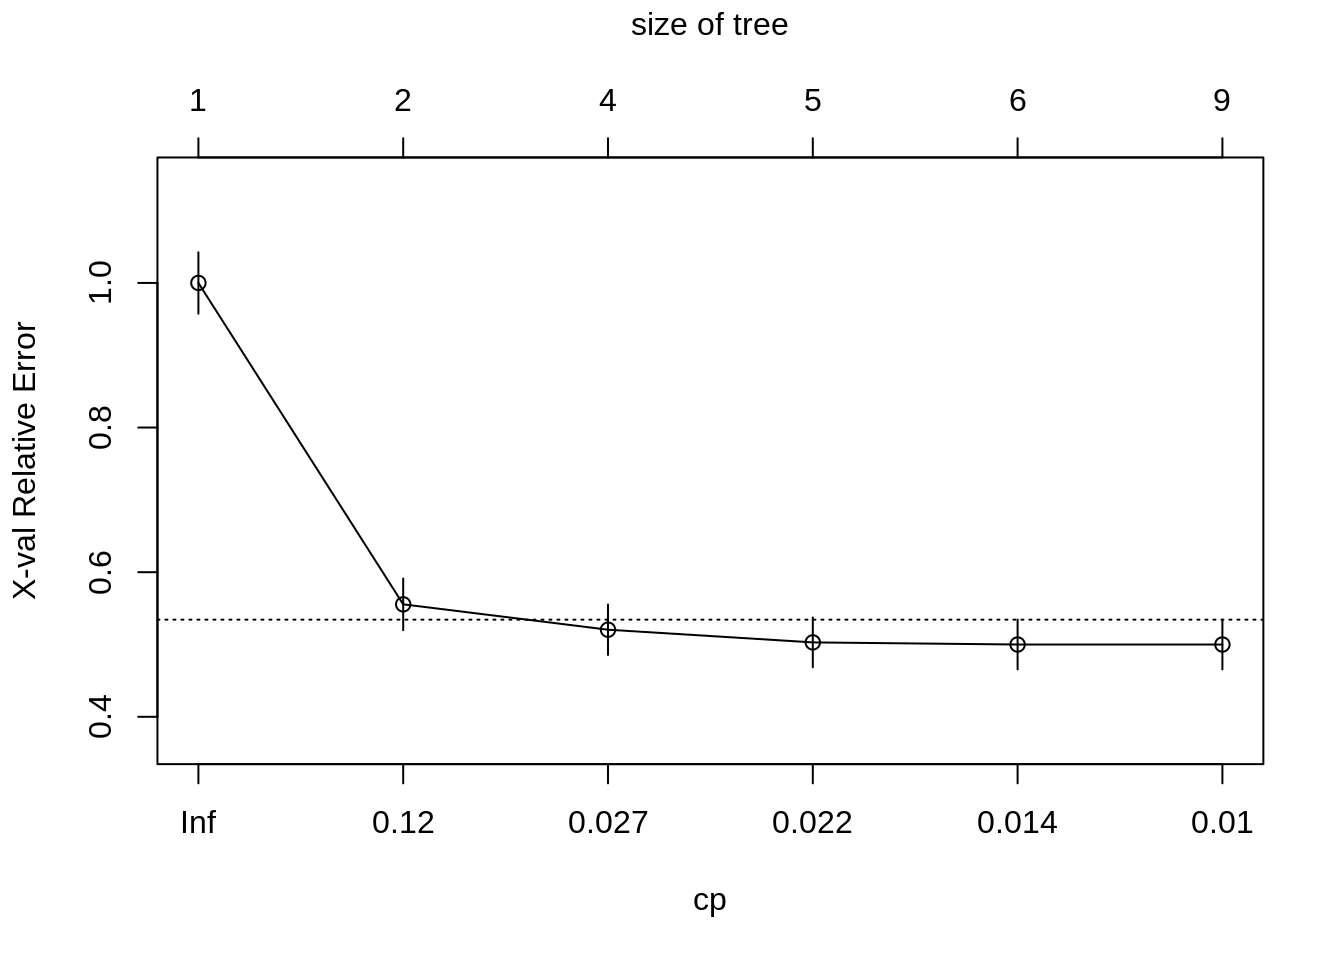
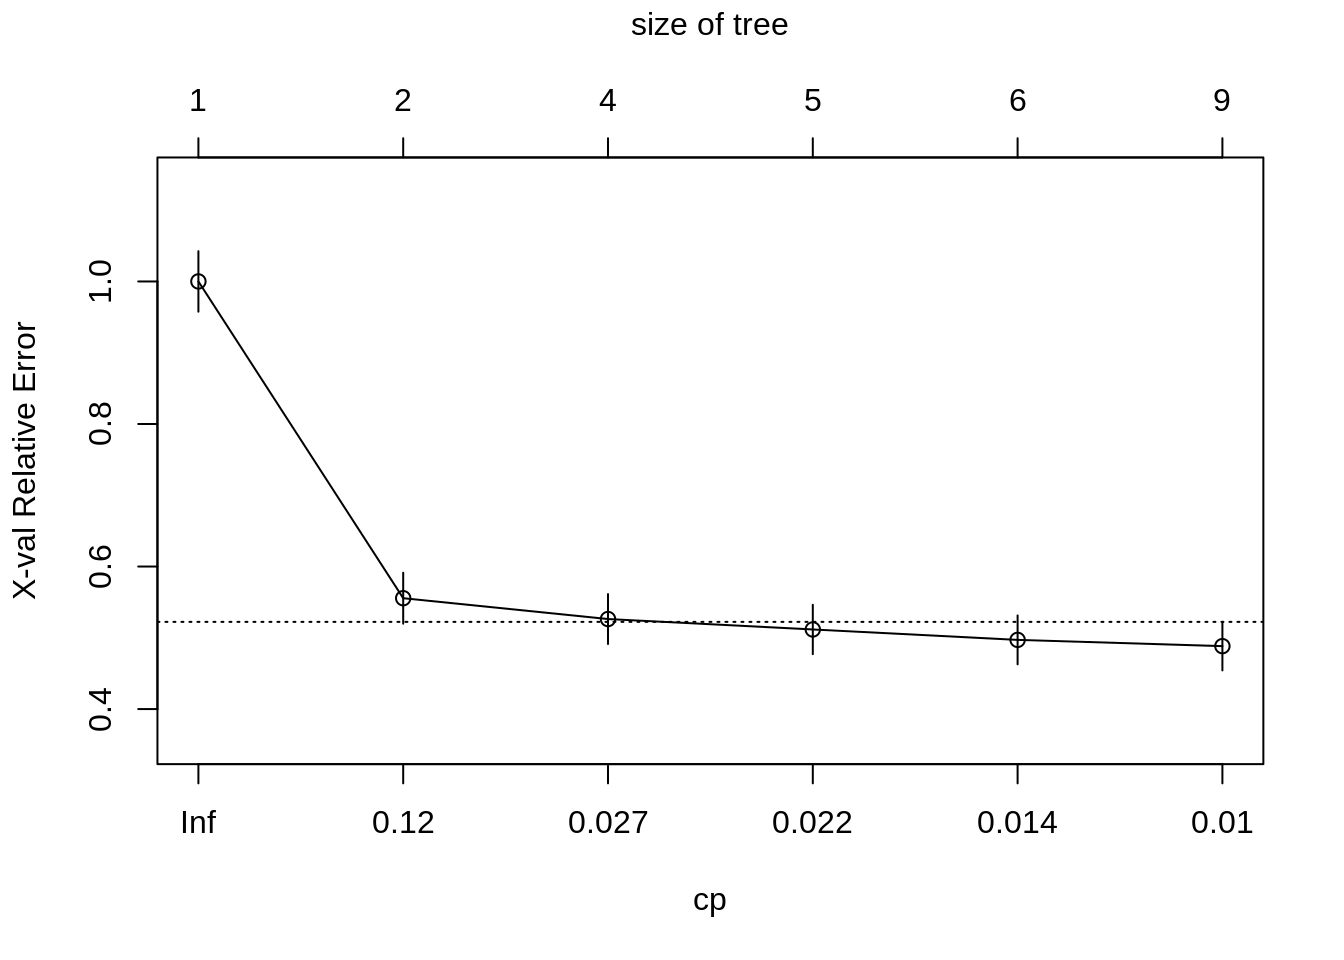
Deploy lebebr01/stat_thinking to github.com/lebebr01/stat_thinking.git:master

diff --git a/docs/descriptive-statistics-numerically-describing-the-sample-data.html b/docs/descriptive-statistics-numerically-describing-the-sample-data.html
@@ -561,6 +561,82 @@ Y = \begin{pmatrix}10 - 24\\ 10-24\\ 20-24\\ 30-24\\ 50-24\end{pmatrix} = \begin
 <pre><code>##   mae_adm_rate
 ## 1    0.1692953</code></pre>
 <!-- This is a test. -->
+<!-- ## Considering Groups -->
+<!-- We've spent a lot of time trying to reason about other variables that may be important in explaining variation in our variable of interest. So far we have only explored the variable without considering other variables, in practice that is not that useful. -->
+<!-- Instead, it is common to compute conditional statistics based on other characteristics in the data. An example may help to show the idea more clearly. -->
+<!-- ```{r} -->
+<!-- colleges %>% -->
+<!--   df_stats(adm_rate ~ region, median) -->
+<!-- ``` -->
+<!-- Presented above are the conditional medians for the higher education institutions in different areas of the country. More specifically, the data are essentially split into subgroups and the median is computed for each of those subgroups instead of pooling all institutions into a single data frame. The formula syntax is now `outcome ~ grouping` where the variable of interest (i.e. commonly a numeric variable) and the variable to the right of the `~` is the grouping variable. This syntax is similar to the violin plots that were created earlier. -->
+<!-- Can you see differences in the admission rates across the regions? -->
+<!-- One thing that is useful to add in when computing conditional statisics, is how many data points are in each group. This is particularly useful when the groups are different sizes, which is common. To do this, we can add another function to the `df_stats()` function. -->
+<!-- ```{r} -->
+<!-- colleges %>% -->
+<!--   df_stats(adm_rate ~ region, median, length) -->
+<!-- ``` -->
+<!-- This adds another columns which represents the number of observations that went into the median calculation for each group. The syntax above also shows that you can add additional functions separated by a comma in the `df_stats()` function and are not limited to a single function. We will take advantage of this feature later on. -->
+<!-- ### Adding additional groups -->
+<!-- What if we thought more than one variable was important in explaining variation in the outcome variable? These can also be added to the `df_stats()` function for additional conditional statistics. The key is to add another variable to the right-hand side of the formula argument. More than one variable are separated with a `+` symbol. -->
+<!-- ```{r} -->
+<!-- colleges %>% -->
+<!--   df_stats(adm_rate ~ region + preddeg, median, length) -->
+<!-- ``` -->
+<!-- ## Other statistics of center -->
+<!-- So far we have been discussing the median. The median attempts to provide a single number summary for the center of the distribution. It is a robust statistic, but likely isn't the most popular statistic to provide a location for the center of a distribution. The mean is often more commonly used as a measure of the center of a distribution. Part of this is due to the usage of the mean in common statistical methods and the mean also uses the values of all the data in the calculation. The median only considers the values of the middle score or scores, therefore this statistic is less sensitive to extreme values than the mean. I like to look at both statistics and this can provide some insight into the distribution of interest. We can add the mean using the `df_stats()` function by adding the function `mean`. -->
+<!-- ```{r} -->
+<!-- stats_compute <- colleges %>% -->
+<!--   df_stats(adm_rate ~ region, median, mean, length) -->
+<!-- stats_compute -->
+<!-- ``` -->
+<!-- Do you notice any trends in the direction the mean and median typically follow? More specifically, is the mean typically larger than the median or vice versa? -->
+<!-- Let's visualize them. -->
+<!-- ```{r} -->
+<!-- gf_histogram(~ adm_rate, data = colleges, bins = 30) %>% -->
+<!--   gf_facet_wrap(~ region) %>% -->
+<!--   gf_vline(color = 'blue', xintercept = ~ median_adm_rate, data = stats_compute, size = 1) %>% -->
+<!--   gf_vline(color = 'lightblue', xintercept = ~ mean_adm_rate, data = stats_compute, size = 1) -->
+<!-- ``` -->
+<!-- What is different about the distributions that have larger differences in the mean and median? -->
+<!-- ## Measures of Variation -->
+<!-- So far we have focused primarily on applying functions to columns of data to provide a single numeric summary for where the center of the distribution may lie. The center of the distribution is important, however the primary goal in research and with statistics is to try to understand the variation in the distribution. -->
+<!-- One crude measure of variation that is intuitive is the range of a variable. The range is the difference between the smallest and the largest number in the data. We can compute this with the `df_stats()` function. -->
+<!-- ```{r} -->
+<!-- colleges %>% -->
+<!--   df_stats(~ adm_rate, range) -->
+<!-- ``` -->
+<!-- The details of the `df_stats()` function are in the previous course notes. The output for this computation returns two values, the minimum and maximum value in the data and unsurprisingly, is 0 and 1 respectively.  -->
+<!-- ### Robust measure of variation -->
+<!-- The idea behind the IQR representing differences in percentiles allows us to extend this to different percentiles that may be more directly interpretable for a given situation. For example, suppose we wanted to know how spread out the middle 80% of the distribution is. We can do this directly by computing the 90th and 10th percentiles and finding the difference between the two. -->
+<!-- ```{r} -->
+<!-- mid_80 <- colleges %>% -->
+<!--   df_stats(~ adm_rate, quantile(c(0.1, 0.9)), nice_names = TRUE) -->
+<!-- mid_80 -->
+<!-- ``` -->
+<!-- As you can see, once you extend the amount of the distribution contained, the distance increases, now to 0.555 or 55.5% the the range of the middle 80% of the admission rate distribution. We can also visualize what this looks like. -->
+<!-- ```{r} -->
+<!-- gf_histogram(~ adm_rate, data = colleges, bins = 30, color = 'black') %>% -->
+<!--   gf_vline(color = 'blue', xintercept = ~ value, data = gather(mid_80), size = 1) -->
+<!-- ``` -->
+<!-- We can also view the exact percentages using the empirical cumulative density function. -->
+<!-- ```{r} -->
+<!-- gf_ecdf(~ adm_rate, data = colleges) %>% -->
+<!--   gf_vline(color = 'blue', xintercept = ~ value, data = gather(mid_80), size = 1) -->
+<!-- ``` -->
+<!-- ### Variation by Group -->
+<!-- These statistics can also be calculated by different grouping variables similar to what was done with statisitcs of center. Now the variable of interest is on the left-hand side of the equation and the grouping variable is on the right hand side. -->
+<!-- ```{r} -->
+<!-- iqr_groups <- colleges %>% -->
+<!--   df_stats(adm_rate ~ region, IQR, quantile(c(0.25, 0.75)), nice_names = TRUE) -->
+<!-- iqr_groups -->
+<!-- ``` -->
+<!-- This can also be visualized to see how these statistics vary across the groups. -->
+<!-- ```{r} -->
+<!-- gf_histogram(~ adm_rate, data = colleges, bins = 30, color = 'black') %>% -->
+<!--   gf_vline(color = 'blue', xintercept = ~ value,  -->
+<!--      data = filter(pivot_longer(iqr_groups, IQR_adm_rate:'X75.'), name %in% c('X25.', 'X75.')), size = 1) %>% -->
+<!--   gf_facet_wrap(~ region) -->
+<!-- ``` -->
 
 </div>
 </div>

diff --git a/docs/classification.html b/docs/classification.html
@@ -324,10 +324,10 @@ titanic &lt;-<span class="st"> </span><span class="kw">bind_rows</span>(titanic_
 ##         CP nsplit rel error  xerror     xstd
 ## 1 0.444444      0   1.00000 1.00000 0.042446
 ## 2 0.030702      1   0.55556 0.55556 0.035750
-## 3 0.023392      3   0.49415 0.52047 0.034897
-## 4 0.020468      4   0.47076 0.50292 0.034448
-## 5 0.010234      5   0.45029 0.50000 0.034372
-## 6 0.010000      8   0.41813 0.50000 0.034372</code></pre>
+## 3 0.023392      3   0.49415 0.52632 0.035043
+## 4 0.020468      4   0.47076 0.51170 0.034675
+## 5 0.010234      5   0.45029 0.49708 0.034295
+## 6 0.010000      8   0.41813 0.48830 0.034061</code></pre>
 <div class="sourceCode"><pre class="sourceCode r"><code class="sourceCode r"><span class="kw">plotcp</span>(class_tree)</code></pre></div>
 <p><img src="05-classification_files/figure-html/unnamed-chunk-6-1.png" width="672" /></p>
 <div class="sourceCode"><pre class="sourceCode r"><code class="sourceCode r">prune_class_tree &lt;-<span class="st"> </span><span class="kw">prune</span>(class_tree, <span class="dt">cp =</span> .<span class="dv">02</span>)

diff --git a/docs/03-descriptive.md b/docs/03-descriptive.md
@@ -711,3 +711,112 @@ colleges %>%
 
 <!-- This is a test. -->
 
+<!-- ## Considering Groups -->
+<!-- We've spent a lot of time trying to reason about other variables that may be important in explaining variation in our variable of interest. So far we have only explored the variable without considering other variables, in practice that is not that useful. -->
+
+<!-- Instead, it is common to compute conditional statistics based on other characteristics in the data. An example may help to show the idea more clearly. -->
+
+<!-- ```{r} -->
+<!-- colleges %>% -->
+<!--   df_stats(adm_rate ~ region, median) -->
+<!-- ``` -->
+
+<!-- Presented above are the conditional medians for the higher education institutions in different areas of the country. More specifically, the data are essentially split into subgroups and the median is computed for each of those subgroups instead of pooling all institutions into a single data frame. The formula syntax is now `outcome ~ grouping` where the variable of interest (i.e. commonly a numeric variable) and the variable to the right of the `~` is the grouping variable. This syntax is similar to the violin plots that were created earlier. -->
+
+<!-- Can you see differences in the admission rates across the regions? -->
+
+<!-- One thing that is useful to add in when computing conditional statisics, is how many data points are in each group. This is particularly useful when the groups are different sizes, which is common. To do this, we can add another function to the `df_stats()` function. -->
+
+<!-- ```{r} -->
+<!-- colleges %>% -->
+<!--   df_stats(adm_rate ~ region, median, length) -->
+<!-- ``` -->
+
+<!-- This adds another columns which represents the number of observations that went into the median calculation for each group. The syntax above also shows that you can add additional functions separated by a comma in the `df_stats()` function and are not limited to a single function. We will take advantage of this feature later on. -->
+
+<!-- ### Adding additional groups -->
+<!-- What if we thought more than one variable was important in explaining variation in the outcome variable? These can also be added to the `df_stats()` function for additional conditional statistics. The key is to add another variable to the right-hand side of the formula argument. More than one variable are separated with a `+` symbol. -->
+
+<!-- ```{r} -->
+<!-- colleges %>% -->
+<!--   df_stats(adm_rate ~ region + preddeg, median, length) -->
+<!-- ``` -->
+
+<!-- ## Other statistics of center -->
+<!-- So far we have been discussing the median. The median attempts to provide a single number summary for the center of the distribution. It is a robust statistic, but likely isn't the most popular statistic to provide a location for the center of a distribution. The mean is often more commonly used as a measure of the center of a distribution. Part of this is due to the usage of the mean in common statistical methods and the mean also uses the values of all the data in the calculation. The median only considers the values of the middle score or scores, therefore this statistic is less sensitive to extreme values than the mean. I like to look at both statistics and this can provide some insight into the distribution of interest. We can add the mean using the `df_stats()` function by adding the function `mean`. -->
+
+<!-- ```{r} -->
+<!-- stats_compute <- colleges %>% -->
+<!--   df_stats(adm_rate ~ region, median, mean, length) -->
+<!-- stats_compute -->
+<!-- ``` -->
+
+<!-- Do you notice any trends in the direction the mean and median typically follow? More specifically, is the mean typically larger than the median or vice versa? -->
+
+<!-- Let's visualize them. -->
+
+<!-- ```{r} -->
+<!-- gf_histogram(~ adm_rate, data = colleges, bins = 30) %>% -->
+<!--   gf_facet_wrap(~ region) %>% -->
+<!--   gf_vline(color = 'blue', xintercept = ~ median_adm_rate, data = stats_compute, size = 1) %>% -->
+<!--   gf_vline(color = 'lightblue', xintercept = ~ mean_adm_rate, data = stats_compute, size = 1) -->
+<!-- ``` -->
+
+<!-- What is different about the distributions that have larger differences in the mean and median? -->
+
+<!-- ## Measures of Variation -->
+
+<!-- So far we have focused primarily on applying functions to columns of data to provide a single numeric summary for where the center of the distribution may lie. The center of the distribution is important, however the primary goal in research and with statistics is to try to understand the variation in the distribution. -->
+
+<!-- One crude measure of variation that is intuitive is the range of a variable. The range is the difference between the smallest and the largest number in the data. We can compute this with the `df_stats()` function. -->
+
+<!-- ```{r} -->
+<!-- colleges %>% -->
+<!--   df_stats(~ adm_rate, range) -->
+<!-- ``` -->
+
+<!-- The details of the `df_stats()` function are in the previous course notes. The output for this computation returns two values, the minimum and maximum value in the data and unsurprisingly, is 0 and 1 respectively.  -->
+
+<!-- ### Robust measure of variation -->
+<!-- The idea behind the IQR representing differences in percentiles allows us to extend this to different percentiles that may be more directly interpretable for a given situation. For example, suppose we wanted to know how spread out the middle 80% of the distribution is. We can do this directly by computing the 90th and 10th percentiles and finding the difference between the two. -->
+
+<!-- ```{r} -->
+<!-- mid_80 <- colleges %>% -->
+<!--   df_stats(~ adm_rate, quantile(c(0.1, 0.9)), nice_names = TRUE) -->
+<!-- mid_80 -->
+<!-- ``` -->
+
+<!-- As you can see, once you extend the amount of the distribution contained, the distance increases, now to 0.555 or 55.5% the the range of the middle 80% of the admission rate distribution. We can also visualize what this looks like. -->
+
+<!-- ```{r} -->
+<!-- gf_histogram(~ adm_rate, data = colleges, bins = 30, color = 'black') %>% -->
+<!--   gf_vline(color = 'blue', xintercept = ~ value, data = gather(mid_80), size = 1) -->
+<!-- ``` -->
+
+<!-- We can also view the exact percentages using the empirical cumulative density function. -->
+
+<!-- ```{r} -->
+<!-- gf_ecdf(~ adm_rate, data = colleges) %>% -->
+<!--   gf_vline(color = 'blue', xintercept = ~ value, data = gather(mid_80), size = 1) -->
+<!-- ``` -->
+
+<!-- ### Variation by Group -->
+<!-- These statistics can also be calculated by different grouping variables similar to what was done with statisitcs of center. Now the variable of interest is on the left-hand side of the equation and the grouping variable is on the right hand side. -->
+
+<!-- ```{r} -->
+<!-- iqr_groups <- colleges %>% -->
+<!--   df_stats(adm_rate ~ region, IQR, quantile(c(0.25, 0.75)), nice_names = TRUE) -->
+<!-- iqr_groups -->
+<!-- ``` -->
+
+<!-- This can also be visualized to see how these statistics vary across the groups. -->
+
+<!-- ```{r} -->
+<!-- gf_histogram(~ adm_rate, data = colleges, bins = 30, color = 'black') %>% -->
+<!--   gf_vline(color = 'blue', xintercept = ~ value,  -->
+<!--      data = filter(pivot_longer(iqr_groups, IQR_adm_rate:'X75.'), name %in% c('X25.', 'X75.')), size = 1) %>% -->
+<!--   gf_facet_wrap(~ region) -->
+<!-- ``` -->
+
+
+

diff --git a/docs/05-classification.md b/docs/05-classification.md
@@ -249,10 +249,10 @@ printcp(class_tree)
 ##         CP nsplit rel error  xerror     xstd
 ## 1 0.444444      0   1.00000 1.00000 0.042446
 ## 2 0.030702      1   0.55556 0.55556 0.035750
-## 3 0.023392      3   0.49415 0.52047 0.034897
-## 4 0.020468      4   0.47076 0.50292 0.034448
-## 5 0.010234      5   0.45029 0.50000 0.034372
-## 6 0.010000      8   0.41813 0.50000 0.034372
+## 3 0.023392      3   0.49415 0.52632 0.035043
+## 4 0.020468      4   0.47076 0.51170 0.034675
+## 5 0.010234      5   0.45029 0.49708 0.034295
+## 6 0.010000      8   0.41813 0.48830 0.034061
 ```
 
 ```r
